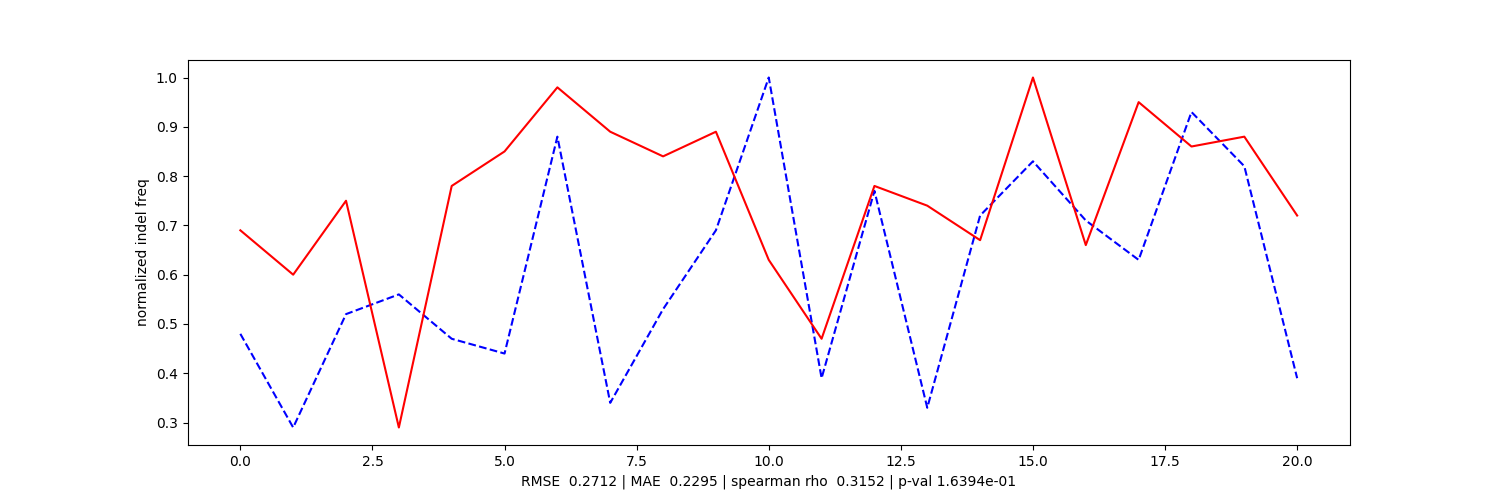
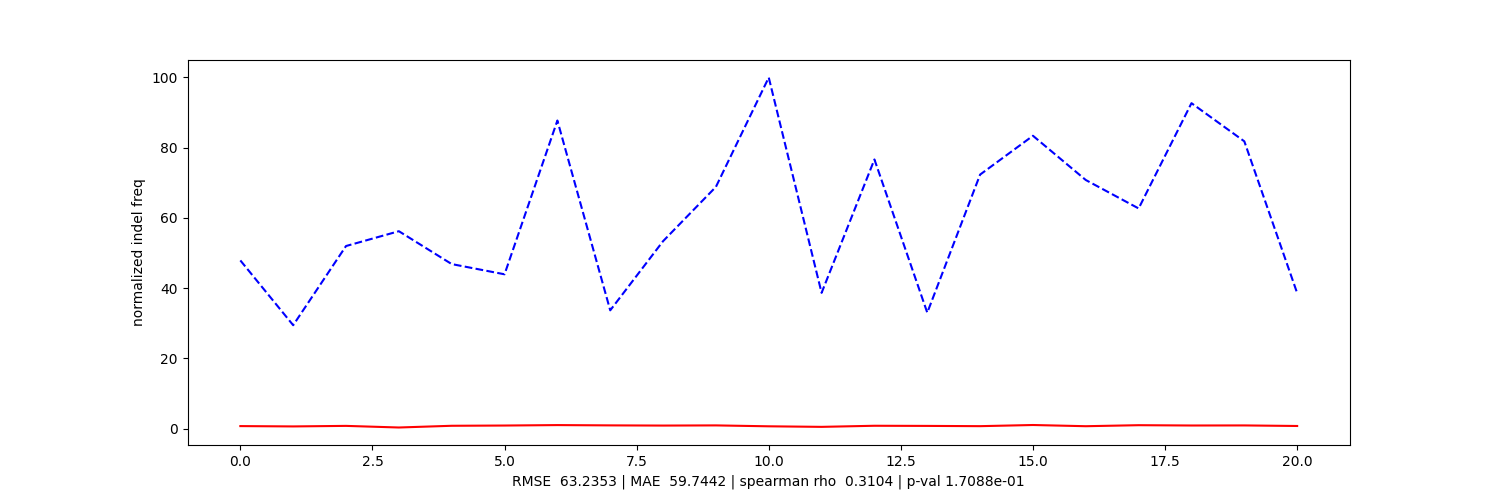
res

diff --git a/quickr_data/compare_quickr_data.py b/quickr_data/compare_quickr_data.py
@@ -5,11 +5,12 @@ from scipy.stats import spearmanr
 import pandas as pd
  
 
-def plot_predictions(pred_vals, y_vals, path):
+
+def plot_predictions(pred_method, pred_vals, y_vals, path):
     temp_x_vals = np.linspace(0, len(y_vals)-1, len(y_vals))
 
-    np_y_vals = np.array(y_vals)
-    np_pred_vals = np.array(pred_vals)
+    np_y_vals = np.array(y_vals)/100
+    np_pred_vals = np.array(pred_vals)/100
 
     rmse = np.sqrt(np.mean((np_y_vals -np_pred_vals)**2))
     mae = np.mean(np.abs(np_y_vals - np_pred_vals))
@@ -23,31 +24,16 @@ def plot_predictions(pred_vals, y_vals, path):
     plt.ylabel(f'normalized indel freq')
     plt.xlabel(f'RMSE {rmse: .4f} | MAE {mae: .4f} | spearman rho {rho: .4f} | p-val {p_value:.4e}')
     plt.savefig(path)
-    print(f'RMSE {rmse: .4f} | MAE {mae: .4f} | spearman rho {rho: .4f} | p-val {p_value:.4e}')
+    print(f'{pred_method} |  RMSE {rmse: .4f} | MAE {mae: .4f} | spearman rho {rho: .4f} | p-val {p_value:.4e} \n')
+    results_df[pred_method] = [round(rmse, 4), round(mae,4), round(rho,4)]
 
 
+df = pd.read_csv('./quickr_data/full_results.csv')
 
+results_df = pd.DataFrame()
 
-df = pd.read_csv('./quickr_data/quickr_data.csv')
-print(df.columns)
-df["pred"] = df["pred"] /100
-pred = df["pred"].tolist()
-deepL = df["rescaled_pred"].tolist()
-true_val = df["val"].tolist()
+for i in df.columns:
+    if i != "Score":
+        plot_predictions(i, df[i].values, df["Score"].values, f'./quickr_data/graphs/{i}_graph.png')
 
-enpam_data = [0.46800952, 0.45909767, 0.25652697, 0.23232431, 0.42940507, 0.26161265, 
-              0.42571779, 0.44305409, 0.20069877, 0.32739208, 0.26335586, 0.42028761, 
-              0.34322143, 0.32852092, 0.22314231, 0.47593864, 0.49661462, 0.24428711, 
-              0.28206996, 0.40618609, 0.22899019]
-
-cpf1_data = [0.5003338241577149, 0.15581436157226564, 0.48654521942138673, 
-             0.025048866271972656, 0.5649512481689453, 0.690278549194336, 
-             0.9873972320556641, 0.8700440979003906, 0.3949498748779297, 
-             0.5780853271484375, 0.4511328125, 0.7987564086914063, 0.4727542495727539, 
-             0.38980392456054686, 0.547983512878418, 0.6068165588378907, 0.7763652038574219, 
-             0.7540806579589844, 0.6130593490600585, 0.7727817535400391, 0.43420654296875]
-
-plot_predictions(pred, true_val, './quickr_data/prediction_graph.png')
-plot_predictions(deepL, true_val, './quickr_data/pred_rescaled_graph.png')
-plot_predictions(enpam_data, true_val, './quickr_data/pred_enpam_graph.png')
-plot_predictions(cpf1_data, true_val, './quickr_data/pred_cpf1_graph.png')
+results_df.to_csv("./quickr_data/summary_results.csv", sep='\t', index =False)
